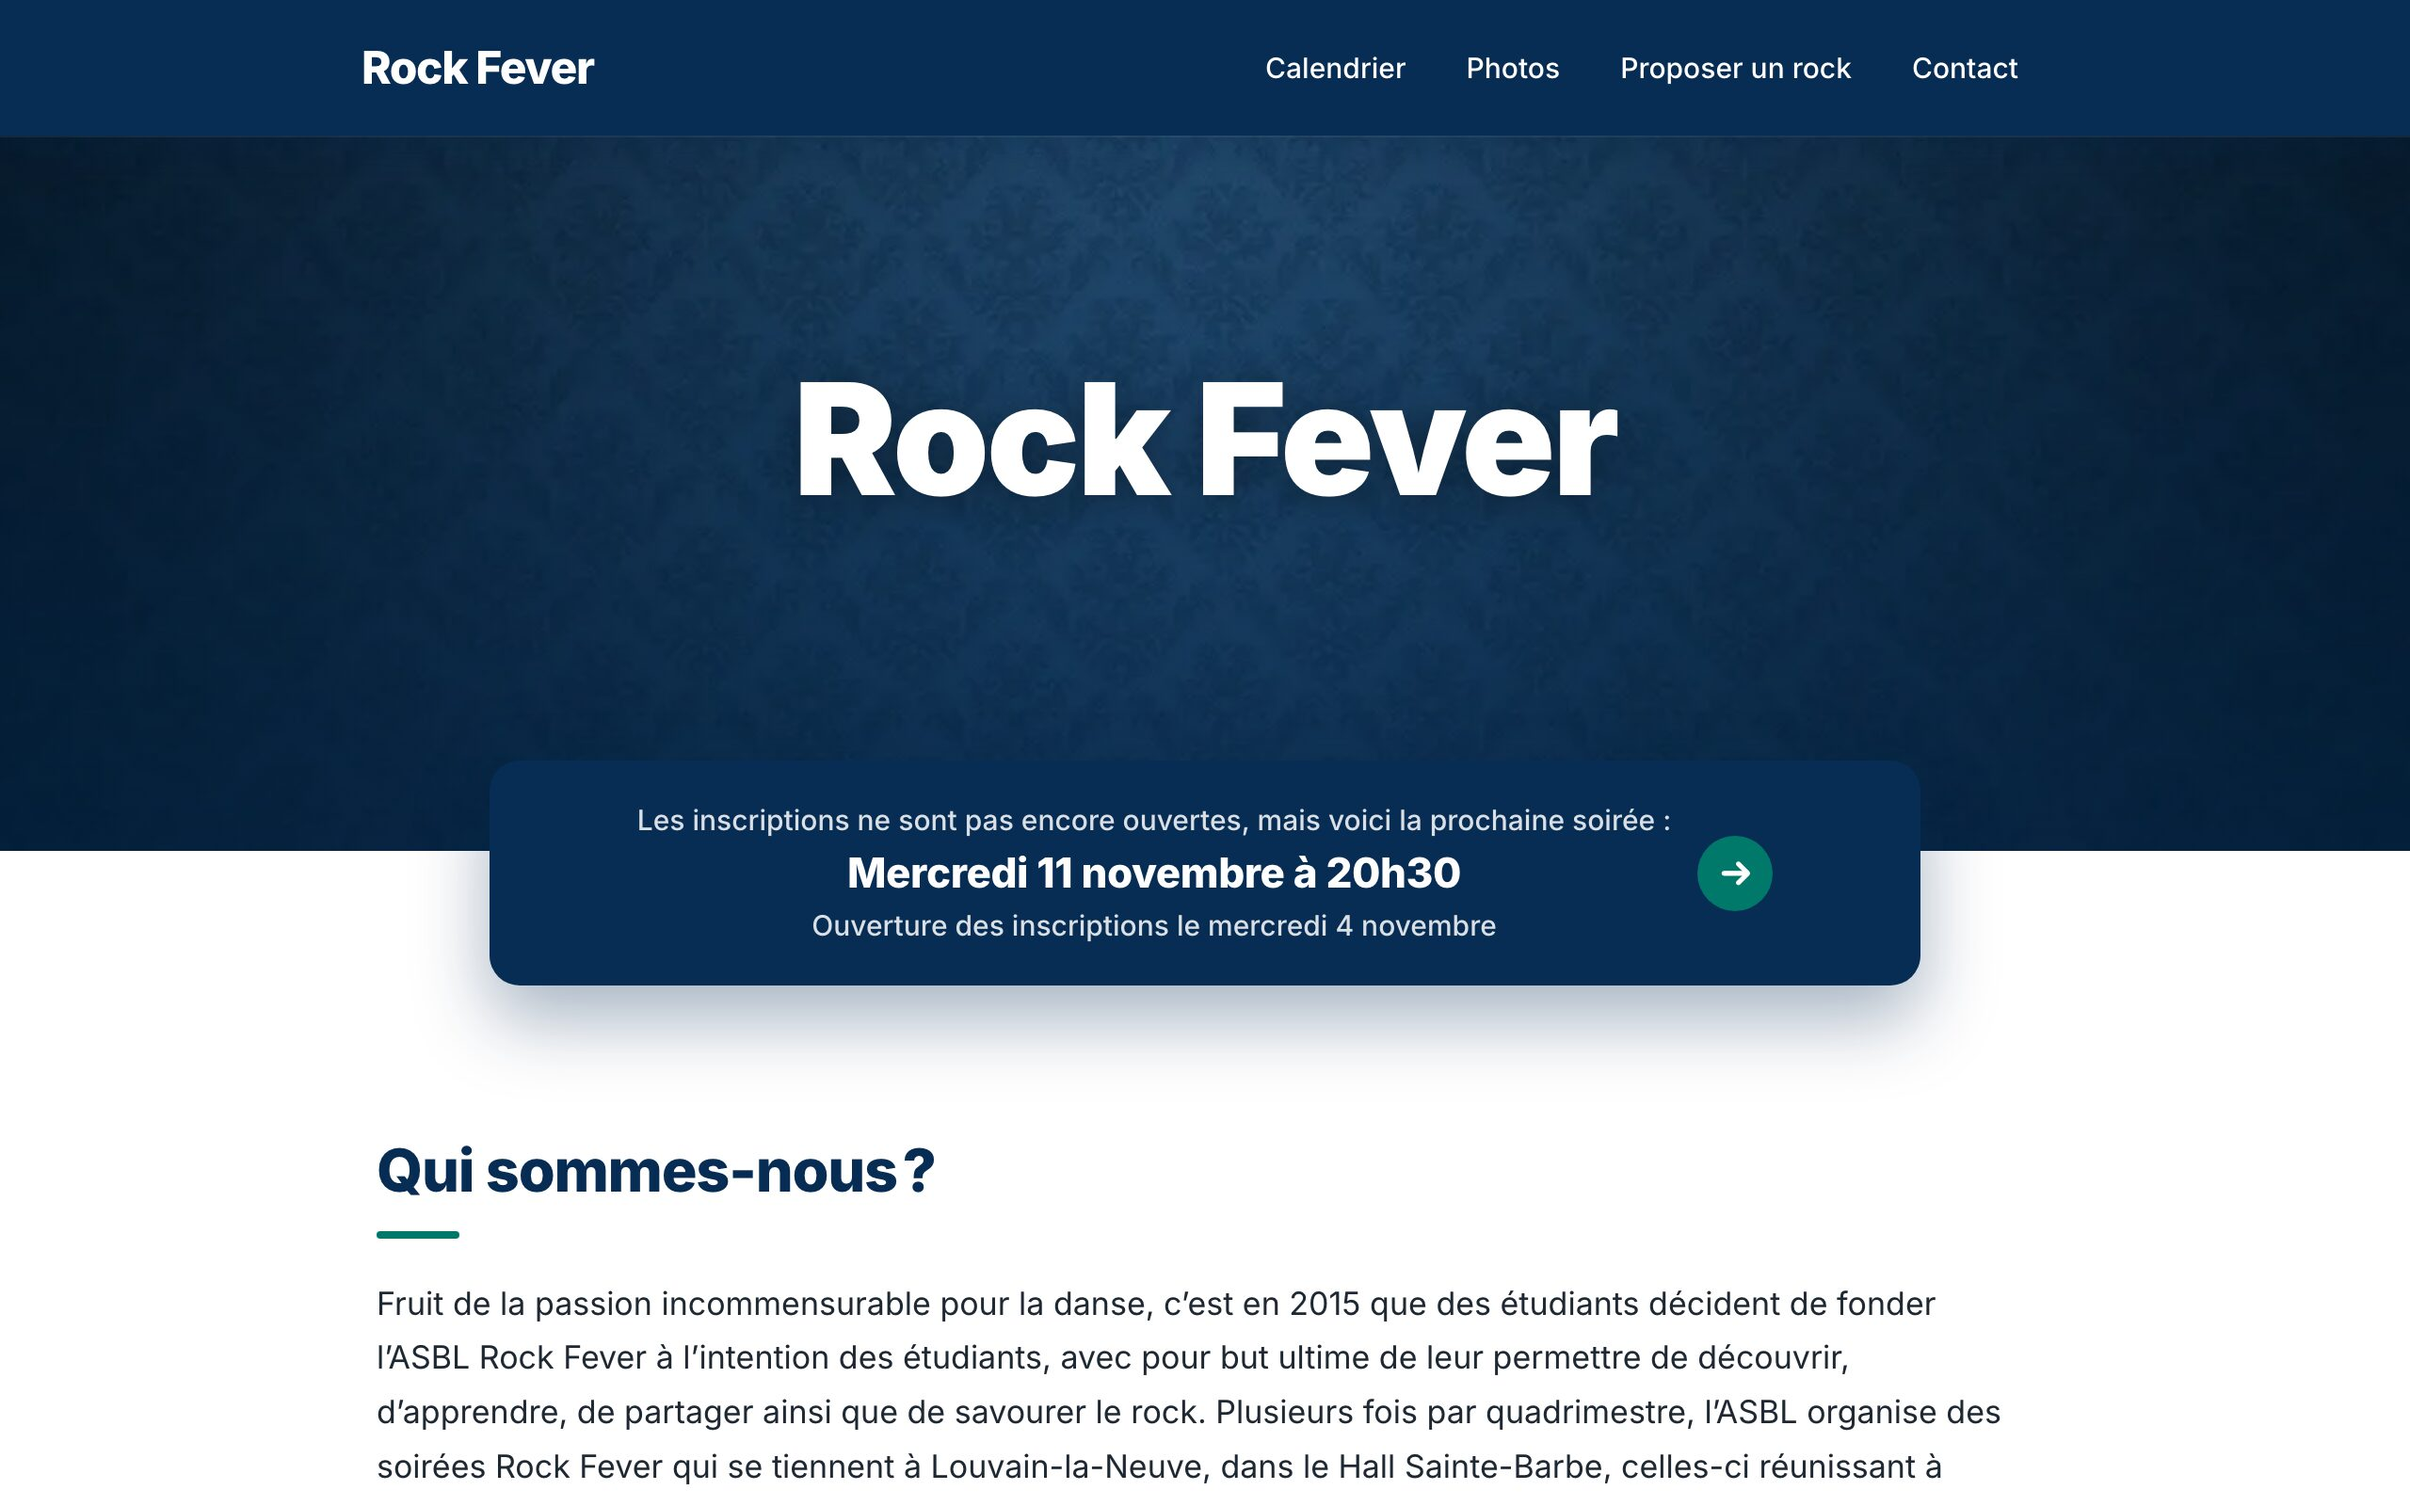
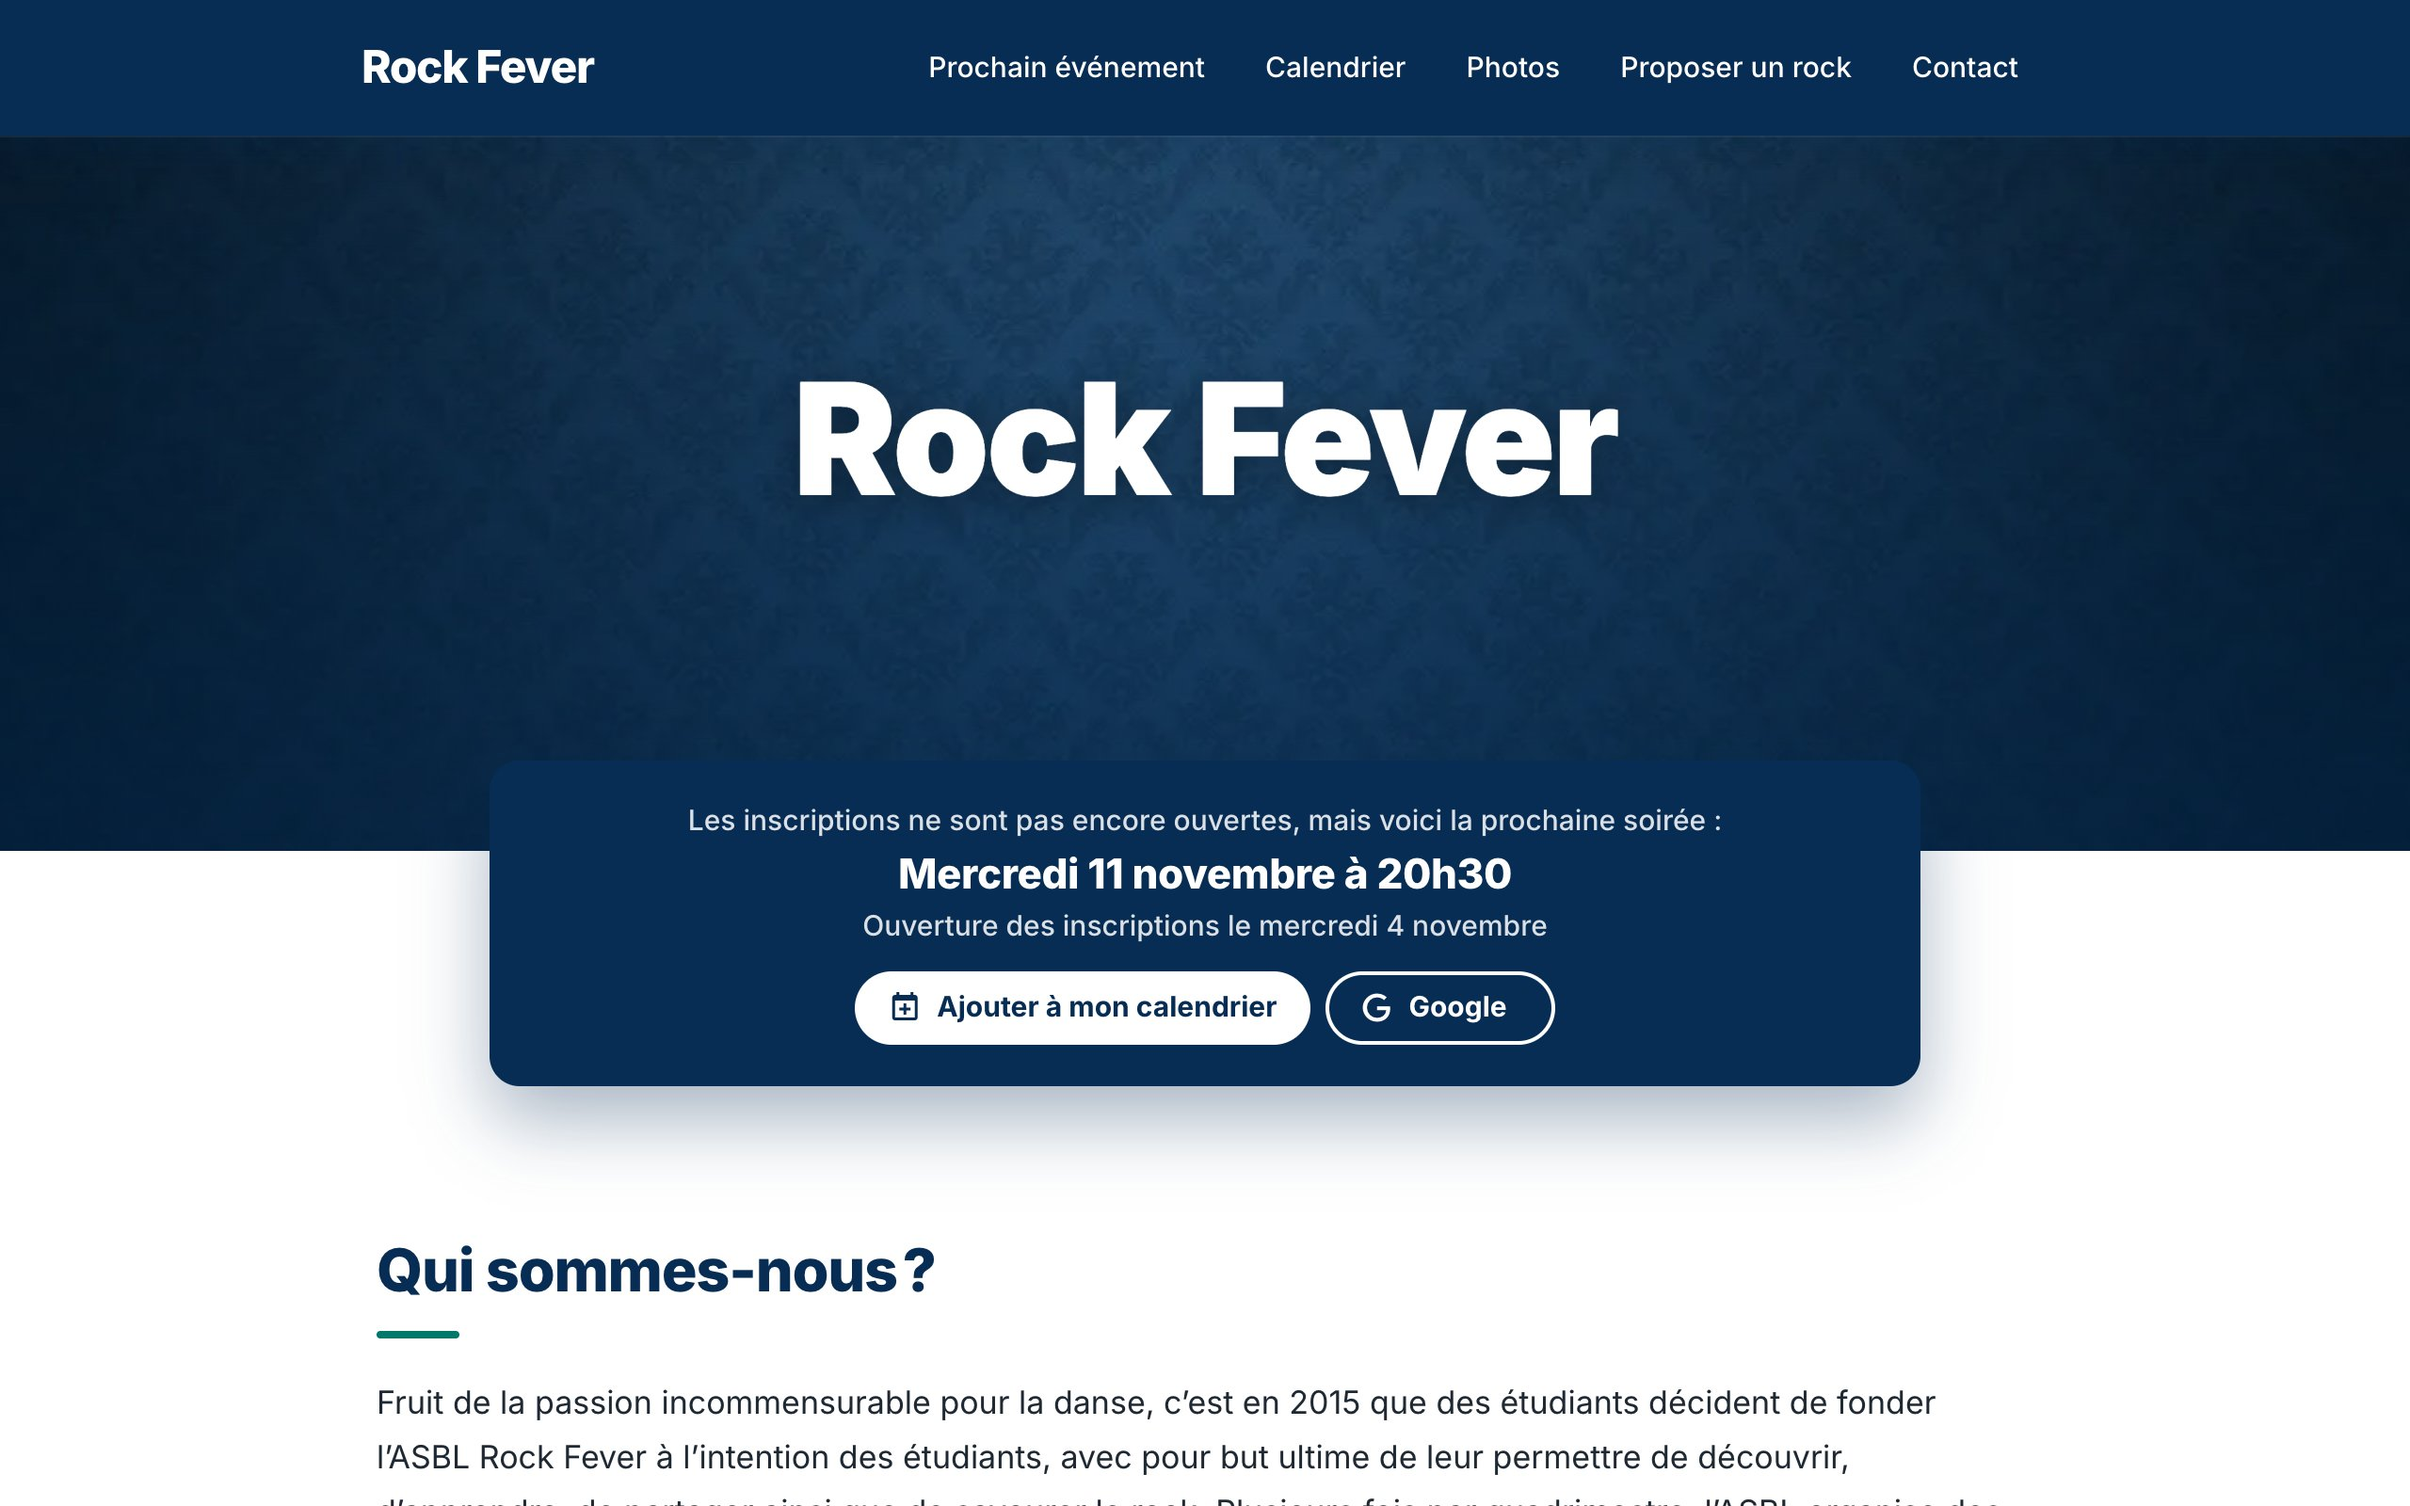
Take the README screenshots from the live site automatically
After each deploy and every Monday, bin/readme-screenshots.mjs opens
rockfever.be in headless Chrome and commits desktop.jpg and phones.webp
when they changed.

diff --git a/README.md b/README.md
@@ -41,7 +41,7 @@ PHP 8.5, Twig 3, PHP-DI 7, Mezzio router, on OVH web hosting. Every push to `mai
 
 ### Contents
 
-[Layout](#layout) · [Run it locally](#run-it-locally) · [Calendar](#calendar) · [Home page](#home-page) · [Photos](#photos) · [Facebook posts](#facebook-posts) · [Page speed](#page-speed) · [Search engines and AI agents](#search-engines-and-ai-agents) · [Deploy](#deploy) · [Package updates](#package-updates)
+[Layout](#layout) · [Run it locally](#run-it-locally) · [Calendar](#calendar) · [Home page](#home-page) · [Photos](#photos) · [Facebook posts](#facebook-posts) · [Page speed](#page-speed) · [Search engines and AI agents](#search-engines-and-ai-agents) · [Deploy](#deploy) · [Package updates](#package-updates) · [README screenshots](#readme-screenshots)
 
 ## Layout
 
@@ -150,3 +150,7 @@ The PHP version on OVH is set in [`.ovhconfig`](.ovhconfig).
 Updates install themselves within a day of their release, major versions included, with no one needing to do anything. Every night, [`.github/workflows/update-dependencies.yml`](.github/workflows/update-dependencies.yml) looks for new versions of the Composer packages (for the PHP version in `.ovhconfig`) and of the JavaScript libraries (`bin/update-js.sh`: TinyMCE, its French translation, clipboard.js and Masonry, loaded from jsDelivr; the site's own scripts and styles use no library, so there's no jQuery or Materialize to update). When there's one, `bin/auto-update.sh` tests it on a copy of the site before it goes live: PHP syntax, PHPStan, every main page answering (`bin/smoke-test.sh`) and their scripts working in Chrome (`bin/browser-test.mjs`: the side menu, dropdown, tooltips, collapsibles, modals, the date fields, the list at the door, TinyMCE, the gallery). Minor and patch releases are tested together, each major version on its own. What passes is committed and deployed; what fails stays on the previous version and is listed in an "Automatic package update failed" issue, then tried again when a newer version comes out. You can also start it by hand from the Actions tab.
 
 To run the same checks locally: `composer migrate && composer seed`, `composer serve`, then in another terminal `bin/smoke-test.sh`, `node --experimental-websocket bin/browser-test.mjs` (Node 20; plain `node` from 22) and `composer analyse`.
+
+## README screenshots
+
+The screenshots at the top of this README come from the live site and update themselves: after every deploy, and every Monday for what changes from the admin, [`.github/workflows/readme-screenshots.yml`](.github/workflows/readme-screenshots.yml) runs [`bin/readme-screenshots.mjs`](bin/readme-screenshots.mjs), which opens rockfever.be in headless Chrome, takes the home page on a computer (`desktop.jpg`) and the home page, the calendar and the photos on phones (`phones.webp`), and commits them when the page looks different. To change which pages the phones show, edit `PHONE_PAGES` in the script. The banner isn't a screenshot and stays as it is. To take them by hand: `node --experimental-websocket bin/readme-screenshots.mjs` (plain `node` from 22).
